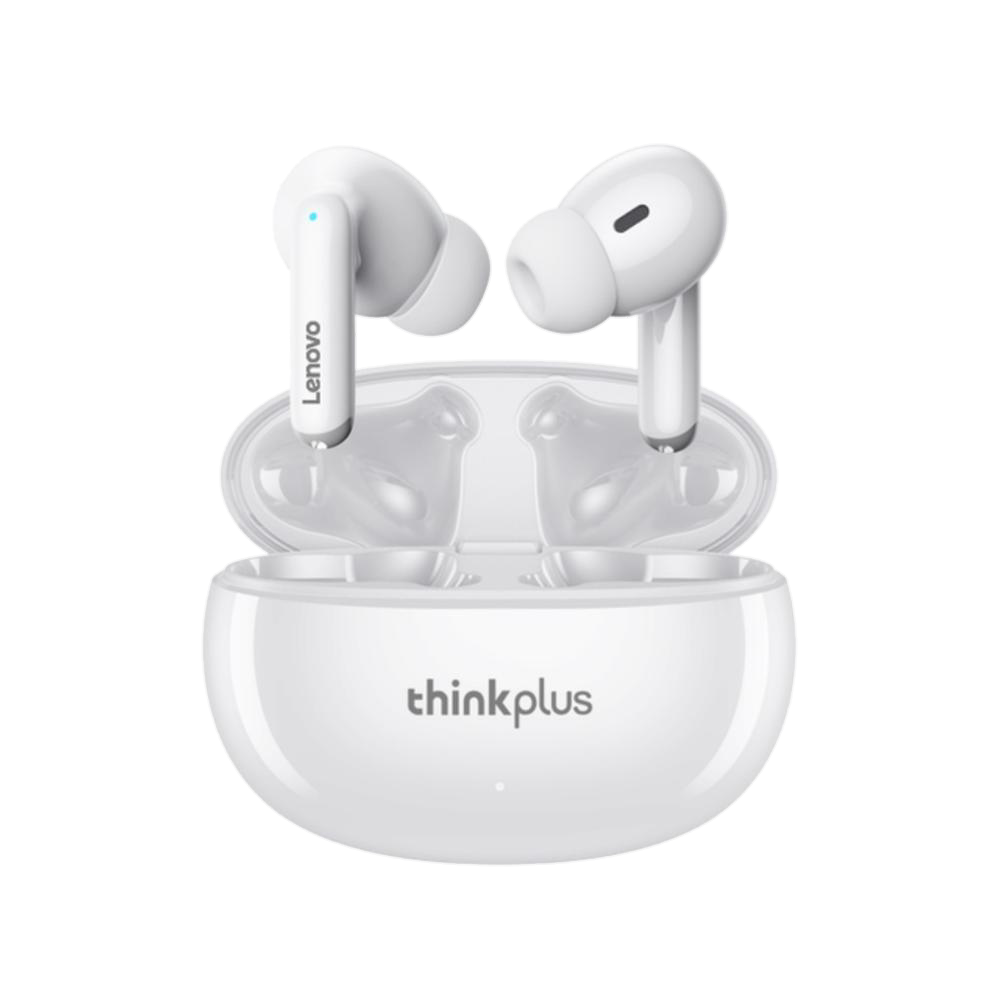
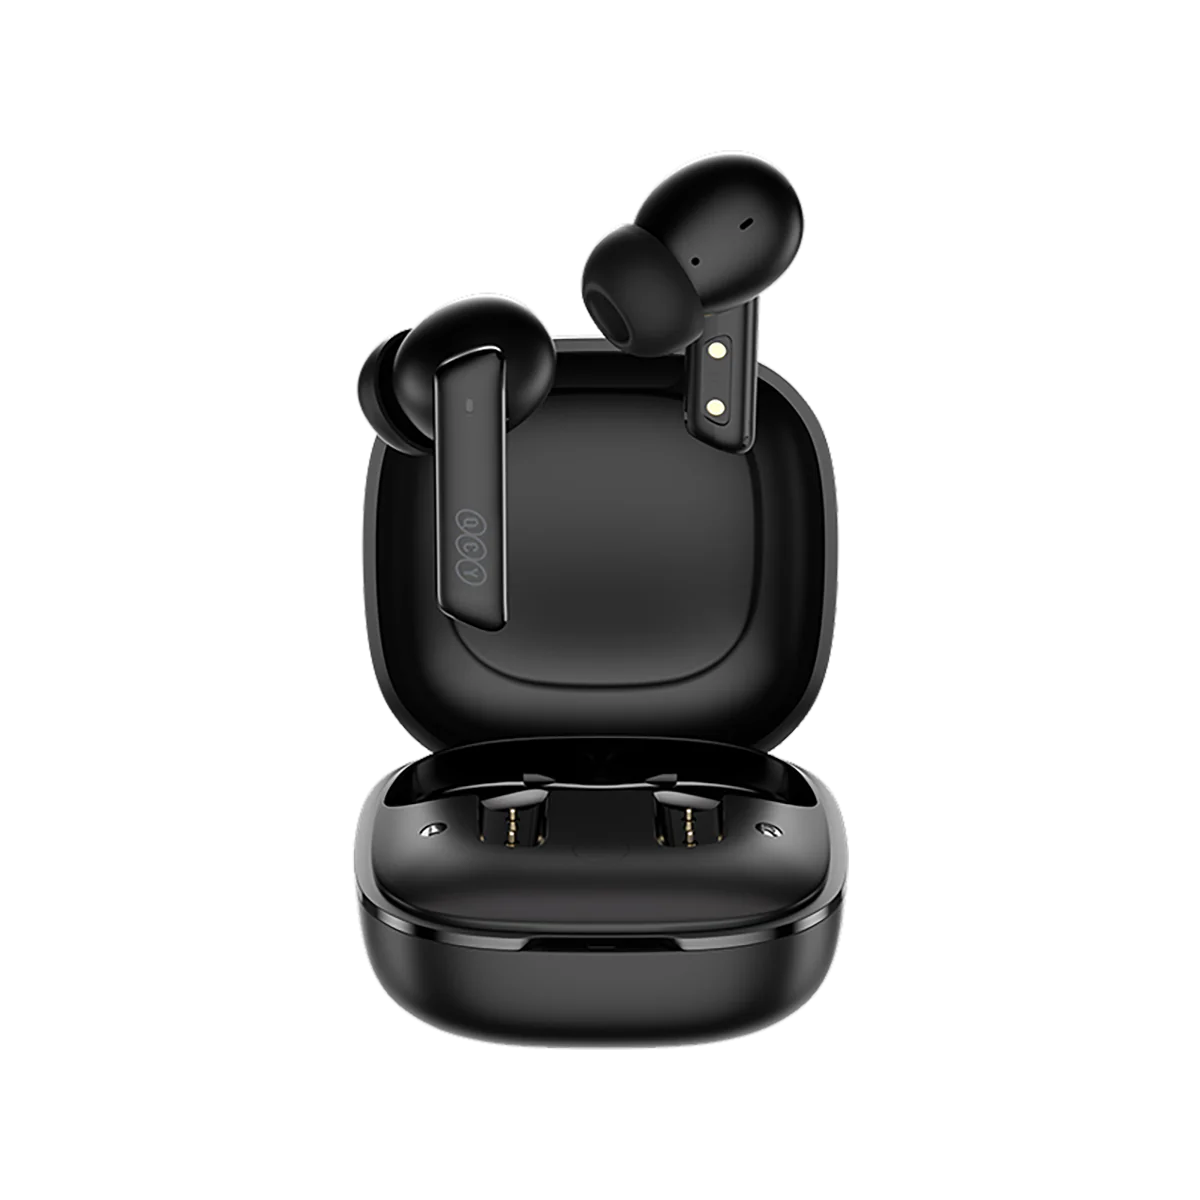
feat: change laptop and main earpod product from setup page

diff --git a/src/pages/Setup/Setup.js b/src/pages/Setup/Setup.js
@@ -12,11 +12,11 @@ function Setup() {
         <div className="setup-area">
           <h3>Workstation</h3>
           <div className="setup-holder">
-            <SetupCard src="laptop" social="Laptop" user="Lenovo L340 Gaming" url="https://www.lenovo.com/br/pt/laptops/ideapad/ideapad-gaming-laptops/IdeaPad-L340-15IRH-Gaming/p/88IPL301161" />
+            <SetupCard src="laptop" social="Laptop" user="Samsung Galaxy Book3 360" url="https://www.amazon.com.br/dp/B0C5RY1WG9?psc=1&ref=ppx_yo2ov_dt_b_product_details" />
             <SetupCard src="suporte" social="Suporte p/ Laptop" url="https://pt.aliexpress.com/item/1005005217800671.html?spm=a2g0o.order_list.order_list_main.4.76eecaa4wvymvg&gatewayAdapt=glo2bra" />
             <SetupCard src="headset" social="Headset" user="Razer Kraken Lite" url="https://www.amazon.com.br/gp/product/B07XC936P8/ref=ppx_yo_dt_b_asin_title_o01_s00?ie=UTF8&psc=1" />
             <SetupCard src="headphone" social="Headphone" user="Philips UH202 BT" url="https://www.amazon.com.br/gp/product/B07YNG2L67/ref=ppx_yo_dt_b_asin_title_o00_s00?ie=UTF8&th=1" />
-            <SetupCard src="earphone1" social="Earpods" user="Lenovo Thinkplus XT88" url="https://pt.aliexpress.com/item/1005005719551043.html?spm=a2g0o.order_list.order_list_main.10.79f0caa43SldAI&gatewayAdapt=glo2bra" />
+            <SetupCard src="earphone1" social="Earpods" user="QCY HT05" url="https://pt.aliexpress.com/item/1005004786288333.html?spm=a2g0o.order_list.order_list_main.73.13fbcaa4fnapqA&gatewayAdapt=glo2bra" />
             <SetupCard src="earphone2" social="Earpods" user="Baseus Encok W04" url="https://www.amazon.com.br/gp/product/B01LYIY2HG/ref=ppx_yo_dt_b_asin_title_o00_s00?ie=UTF8&psc=1" />
             <SetupCard src="mouse1" social="Mouse" user="Baseus F01B Wireless" url="https://pt.aliexpress.com/item/1005005847298347.html?spm=a2g0o.order_list.order_list_main.6.649ecaa4iWc5Ig&gatewayAdapt=glo2bra" />
             <SetupCard src="mouse2" social="Mouse" user="Dell MS3320p" url="https://pt.aliexpress.com/i/1005002494212473.html" />
